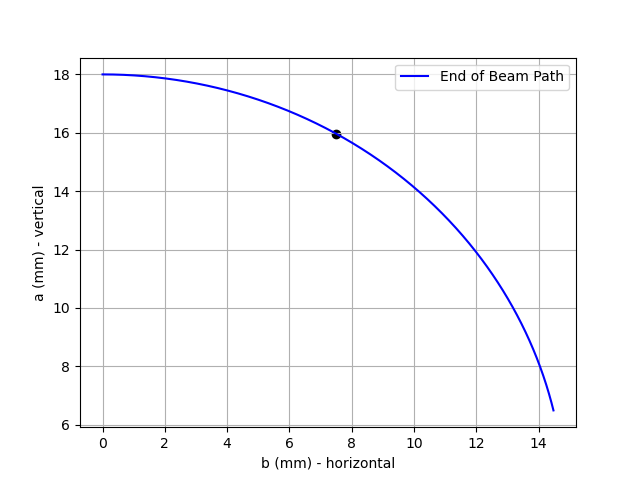
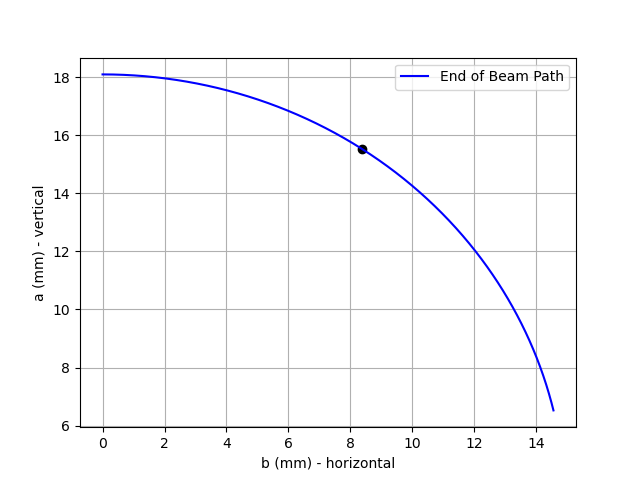
Changed geometry to match Andrew's current version

diff --git a/Capstone/Bar_stress_rectangle.py b/Capstone/Bar_stress_rectangle.py
@@ -9,10 +9,10 @@ def calculation(E = 0.2e6, Sy=60e3):
     # Default Values
     # E=.2*10**6          # Module of Elasticity in lb/in^2
     # Sy=60*10**3         # Yield Strength in lb/in^2
-    l = mm2in(18)         # Length of the beam in in
+    l = mm2in(18.1)       # Length of the beam in in
     w = mm2in(1.2)        # Width of the beam in in
-    h = mm2in(3)          # Height of the beam in in
-    b = mm2in(8.7)        # Deflection of the beam required in in
+    h = mm2in(4.2)          # Height of the beam in in
+    b = mm2in(10.1)       # Deflection of the beam required in in
     phi = 160             # Angle of deflection in degrees
 
     # Find CM Constants

diff --git a/Capstone/Pin Deflection.py b/Capstone/Pin Deflection.py
@@ -6,9 +6,9 @@ import numpy as np
 import matplotlib.pyplot as plt # type: ignore
 
 # --- Inputs ---
-l = 18   # mm (beam length)
+l = 18.1   # mm (beam length)
 n_num = 3  # stiffness ratio
-disp = 8.7
+disp = 10.1
 
 # --- Characteristic radius factor (Eq. 5.48 from Howell et al.) ---
 if 0.5 < n_num < 10:
@@ -30,6 +30,9 @@ a = l * (1 - y * (1 - np.cos(theta)))             # horizontal displacement
 
 b0 = l * y * np.sin(angle)                         # vertical deflection
 a0 = l * (1 - y * (1 - np.cos(angle)))             # horizontal displacement
+
+print(f'Horizontal Displacement: {b0} mm')
+print(f'Vertical Displacement: {l-a0} mm')
 
 # --- Plot ---
 plt.figure()
